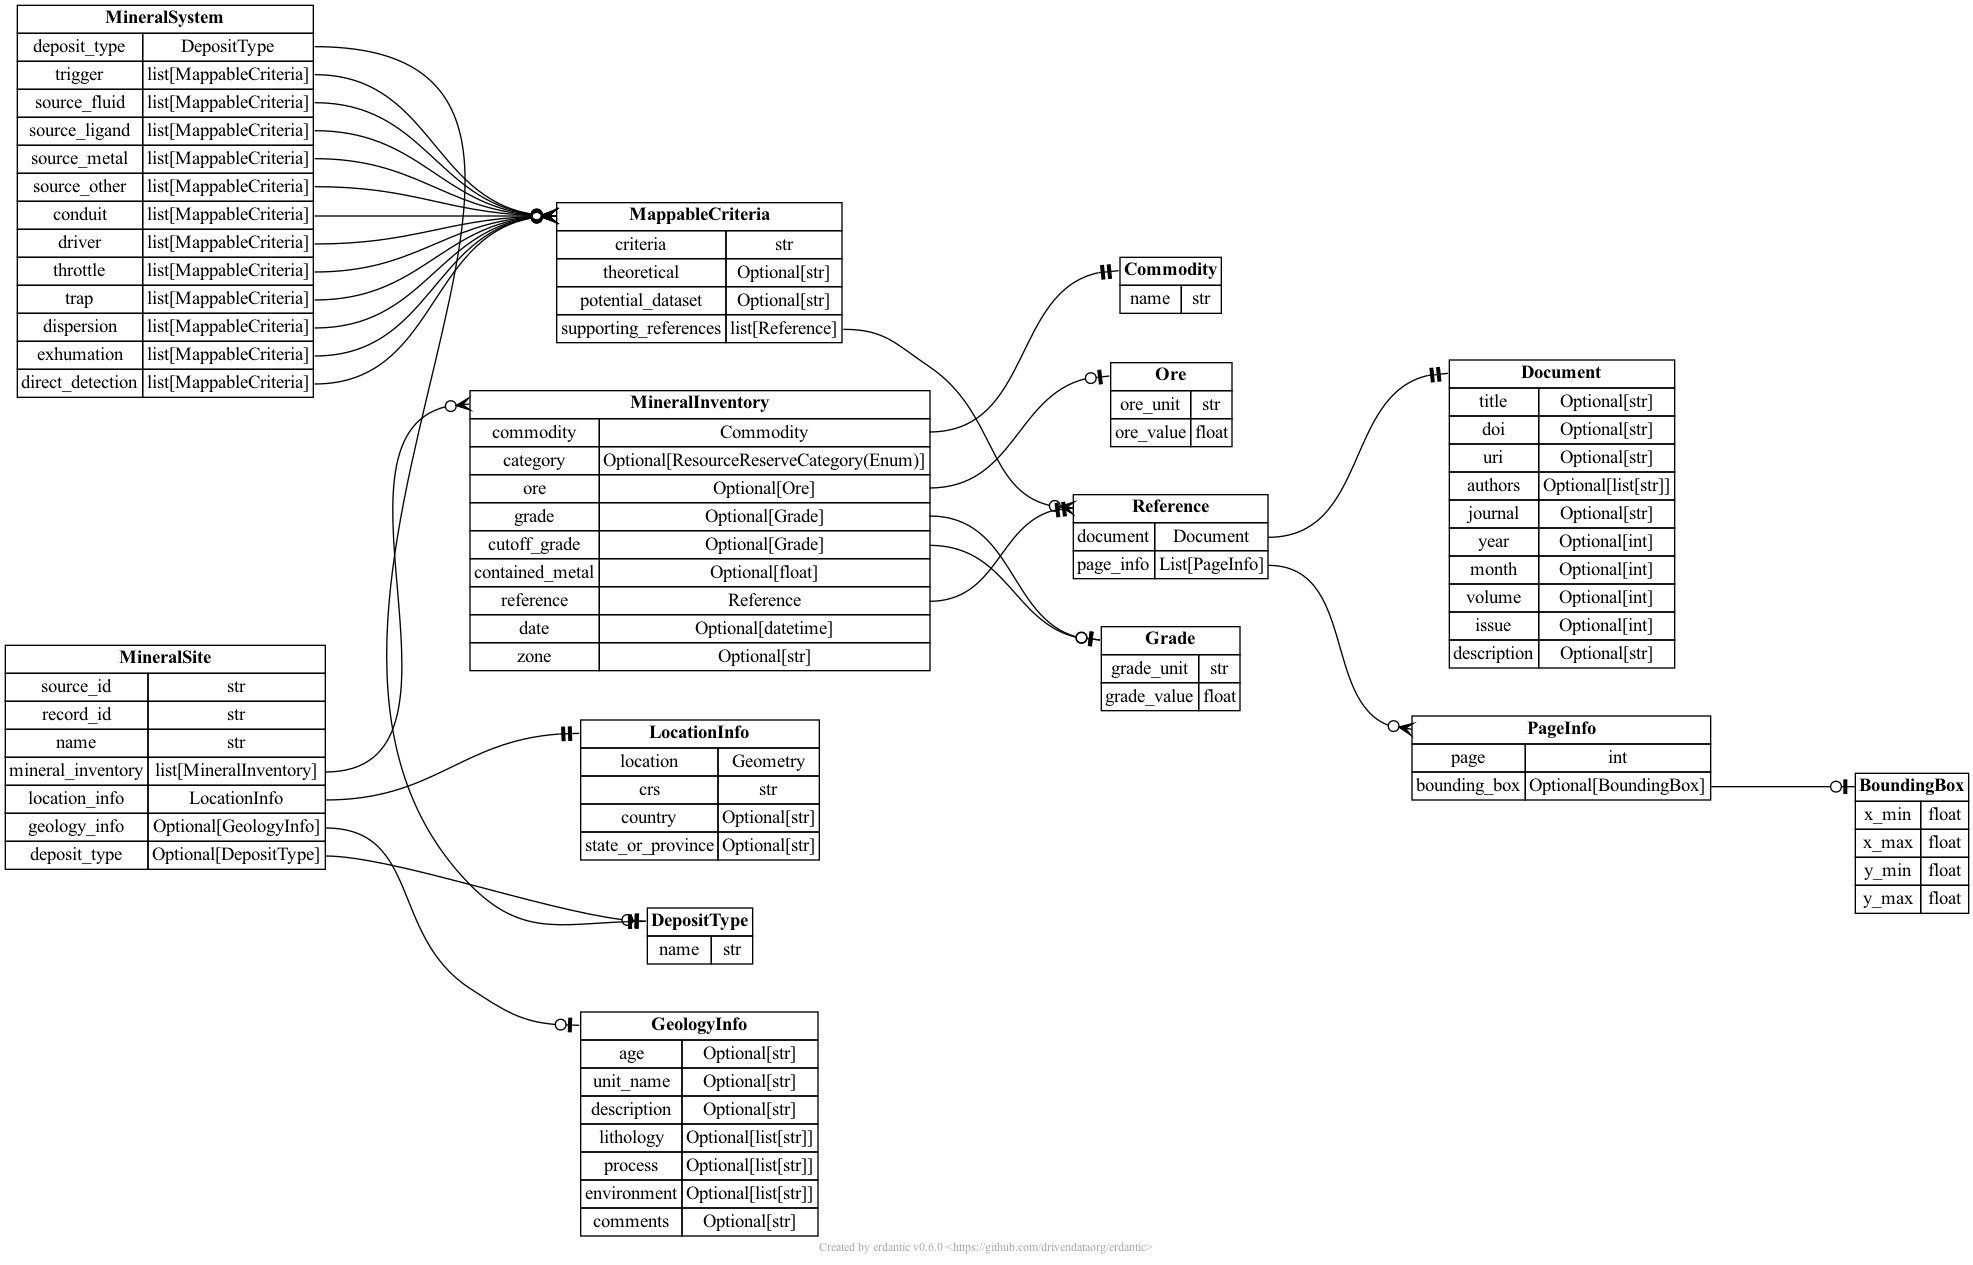
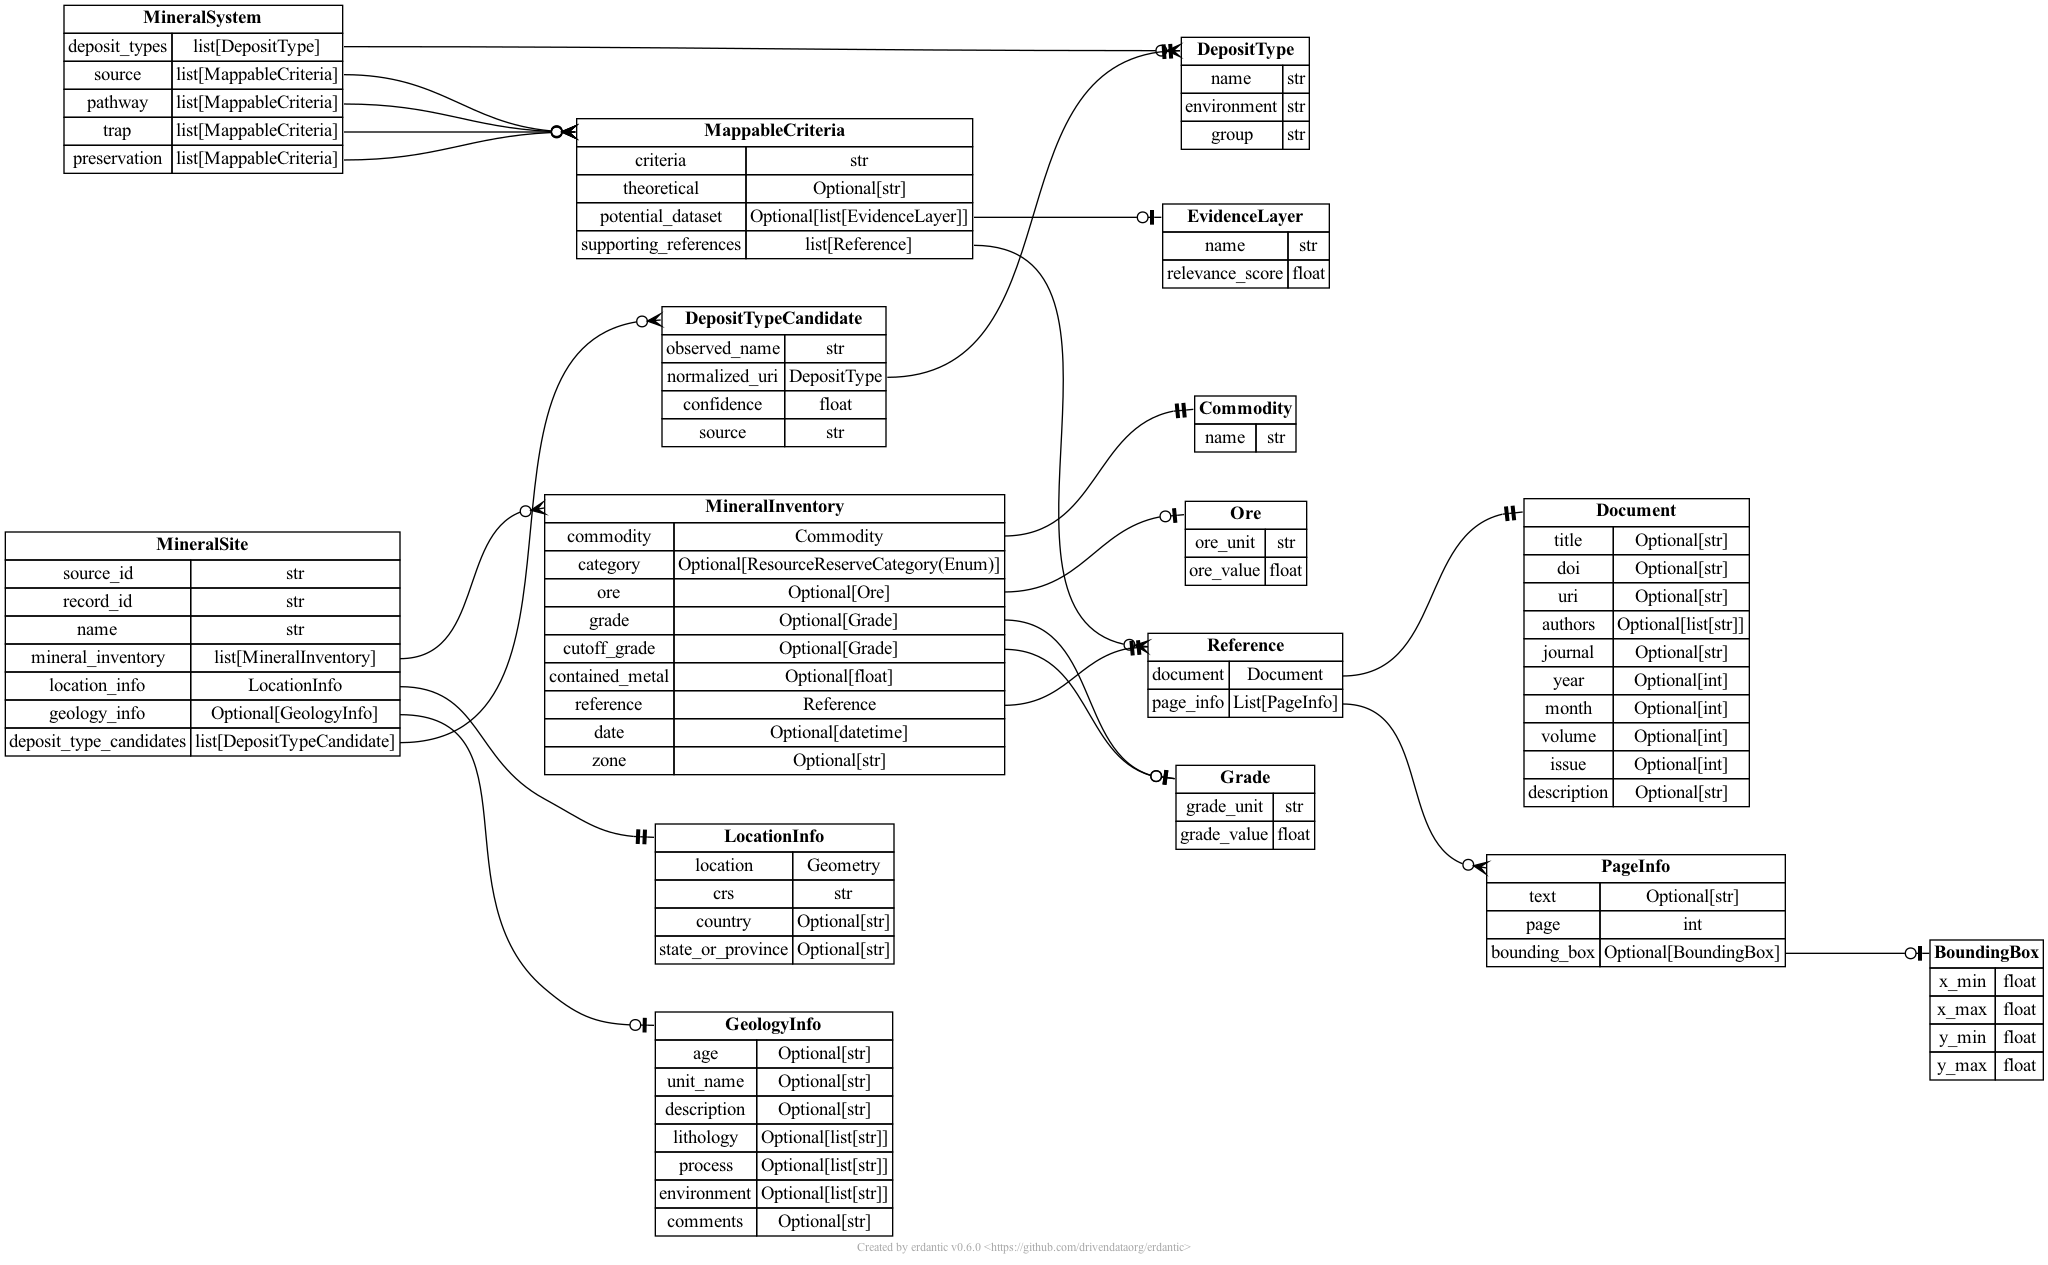
[hackathon] update TA2 schema

diff --git a/ta2/output.py b/ta2/output.py
@@ -34,7 +34,15 @@ class Ore(BaseModel):
     ore_value: float = Field( description="The value of ore quantity")
 
 class DepositType(BaseModel):
-    name: str = Field( description="Name of the deposit type")
+    name: str = Field( description="Deposit type name")
+    environment: str = Field( description="Deposit type environment")
+    group: str = Field( description="Deposit type group")
+
+class DepositTypeCandidate(BaseModel):
+    observed_name: str = Field(description="Source dataset that the site info is retrieved from. e.g., MRDS")
+    normalized_uri: DepositType = Field(description="The deposit type of an inventory item")
+    confidence: float = Field(description="Score deposit type of an inventory item")
+    source: str = Field(description="Source of the classification (automated model version / SME / etc...)")
 
 class BoundingBox(BaseModel):
     x_min: float
@@ -43,6 +51,7 @@ class BoundingBox(BaseModel):
     y_max: float
 
 class PageInfo(BaseModel):
+    text: Optional[str]
     page: int
     bounding_box: Optional[BoundingBox] = Field(description="Coordinates of the document where reference is found")
 
@@ -62,26 +71,22 @@ class Reference(BaseModel):
     document: Document
     page_info: List[PageInfo] = Field(description="List of pages and their respective bounding boxes where the reference is found")
 
+class EvidenceLayer(BaseModel):
+    name: str
+    relevance_score: float
+
 class MappableCriteria(BaseModel):
     criteria: str
     theoretical: Optional[str]
-    potential_dataset: Optional[str]
+    potential_dataset: Optional[list[EvidenceLayer]]
     supporting_references: list[Reference]
 
 class MineralSystem(BaseModel):
-    deposit_type: DepositType
-    trigger: list[MappableCriteria]
-    source_fluid: list[MappableCriteria]
-    source_ligand: list[MappableCriteria]
-    source_metal: list[MappableCriteria]
-    source_other: list[MappableCriteria]
-    conduit: list[MappableCriteria]
-    driver: list[MappableCriteria]
-    throttle: list[MappableCriteria]
+    deposit_types: list[DepositType]
+    source: list[MappableCriteria]
+    pathway: list[MappableCriteria]
     trap: list[MappableCriteria]
-    dispersion: list[MappableCriteria]
-    exhumation: list[MappableCriteria]
-    direct_detection: list[MappableCriteria]
+    preservation: list[MappableCriteria]
 
 class Commodity(BaseModel):
     name: str
@@ -125,7 +130,7 @@ class MineralSite(BaseModel):
     mineral_inventory: list[MineralInventory]
     location_info: LocationInfo
     geology_info: Optional[GeologyInfo]
-    deposit_type: Optional[DepositType] = Field(description="The deposit type of an inventory item")
+    deposit_type_candidates: list[DepositTypeCandidate]
 
 
 # Schemas can conform to other ones by inheriting from them or by declaring conformance

diff --git a/ta2/output.md b/ta2/output.md
@@ -12,10 +12,8 @@
   - **Any of**
     - : Refer to *[GeologyInfo](#GeologyInfo)*.
     - *null*
-- **`deposit_type`**: The deposit type of an inventory item.
-  - **Any of**
-    - : Refer to *[DepositType](#DepositType)*.
-    - *null*
+- **`deposit_type_candidates`** *(array)*
+  - **Items**: Refer to *[DepositTypeCandidate](#DepositTypeCandidate)*.
 
 ## BoundingBox
 
@@ -36,7 +34,20 @@
 
 ### Properties
 
-- **`name`** *(string)*: Name of the deposit type.
+- **`name`** *(string)*: Deposit type name.
+- **`environment`** *(string)*: Deposit type environment.
+- **`group`** *(string)*: Deposit type group.
+
+## DepositTypeCandidate
+
+### Properties
+
+- **`observed_name`** *(string)*: Source dataset that the site info is retrieved from. e.g., MRDS.
+- **`normalized_uri`**: The deposit type of an inventory item.
+  - **All of**
+    - : Refer to *[DepositType](#DepositType)*.
+- **`confidence`** *(number)*: Score deposit type of an inventory item.
+- **`source`** *(string)*: Source of the classification (automated model version / SME / etc...).
 
 ## Document
 
@@ -83,6 +94,13 @@
   - **Any of**
     - *string*
     - *null*
+
+## EvidenceLayer
+
+### Properties
+
+- **`name`** *(string)*
+- **`relevance_score`** *(number)*
 
 ## GeologyInfo
 
@@ -153,7 +171,8 @@
     - *null*
 - **`potential_dataset`**
   - **Any of**
-    - *string*
+    - *array*
+      - **Items**: Refer to *[EvidenceLayer](#EvidenceLayer)*.
     - *null*
 - **`supporting_references`** *(array)*
   - **Items**: Refer to *[Reference](#Reference)*.
@@ -201,30 +220,15 @@
 
 ### Properties
 
-- **`deposit_type`**: Refer to *[DepositType](#DepositType)*.
-- **`trigger`** *(array)*
+- **`deposit_types`** *(array)*
+  - **Items**: Refer to *[DepositType](#DepositType)*.
+- **`source`** *(array)*
   - **Items**: Refer to *[MappableCriteria](#MappableCriteria)*.
-- **`source_fluid`** *(array)*
-  - **Items**: Refer to *[MappableCriteria](#MappableCriteria)*.
-- **`source_ligand`** *(array)*
-  - **Items**: Refer to *[MappableCriteria](#MappableCriteria)*.
-- **`source_metal`** *(array)*
-  - **Items**: Refer to *[MappableCriteria](#MappableCriteria)*.
-- **`source_other`** *(array)*
-  - **Items**: Refer to *[MappableCriteria](#MappableCriteria)*.
-- **`conduit`** *(array)*
-  - **Items**: Refer to *[MappableCriteria](#MappableCriteria)*.
-- **`driver`** *(array)*
-  - **Items**: Refer to *[MappableCriteria](#MappableCriteria)*.
-- **`throttle`** *(array)*
+- **`pathway`** *(array)*
   - **Items**: Refer to *[MappableCriteria](#MappableCriteria)*.
 - **`trap`** *(array)*
   - **Items**: Refer to *[MappableCriteria](#MappableCriteria)*.
-- **`dispersion`** *(array)*
-  - **Items**: Refer to *[MappableCriteria](#MappableCriteria)*.
-- **`exhumation`** *(array)*
-  - **Items**: Refer to *[MappableCriteria](#MappableCriteria)*.
-- **`direct_detection`** *(array)*
+- **`preservation`** *(array)*
   - **Items**: Refer to *[MappableCriteria](#MappableCriteria)*.
 
 ## Ore
@@ -238,6 +242,10 @@
 
 ### Properties
 
+- **`text`**
+  - **Any of**
+    - *string*
+    - *null*
 - **`page`** *(integer)*
 - **`bounding_box`**: Coordinates of the document where reference is found.
   - **Any of**
